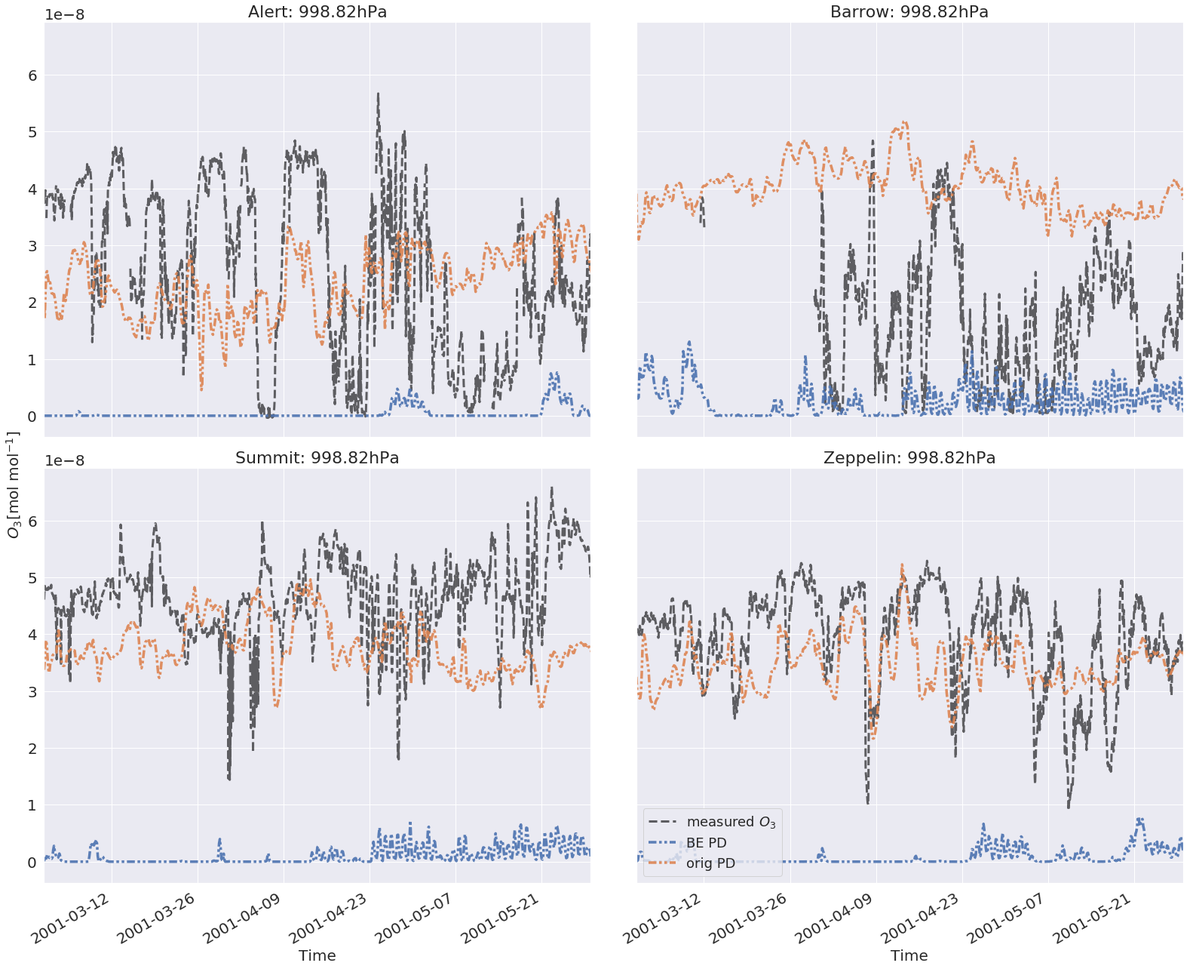
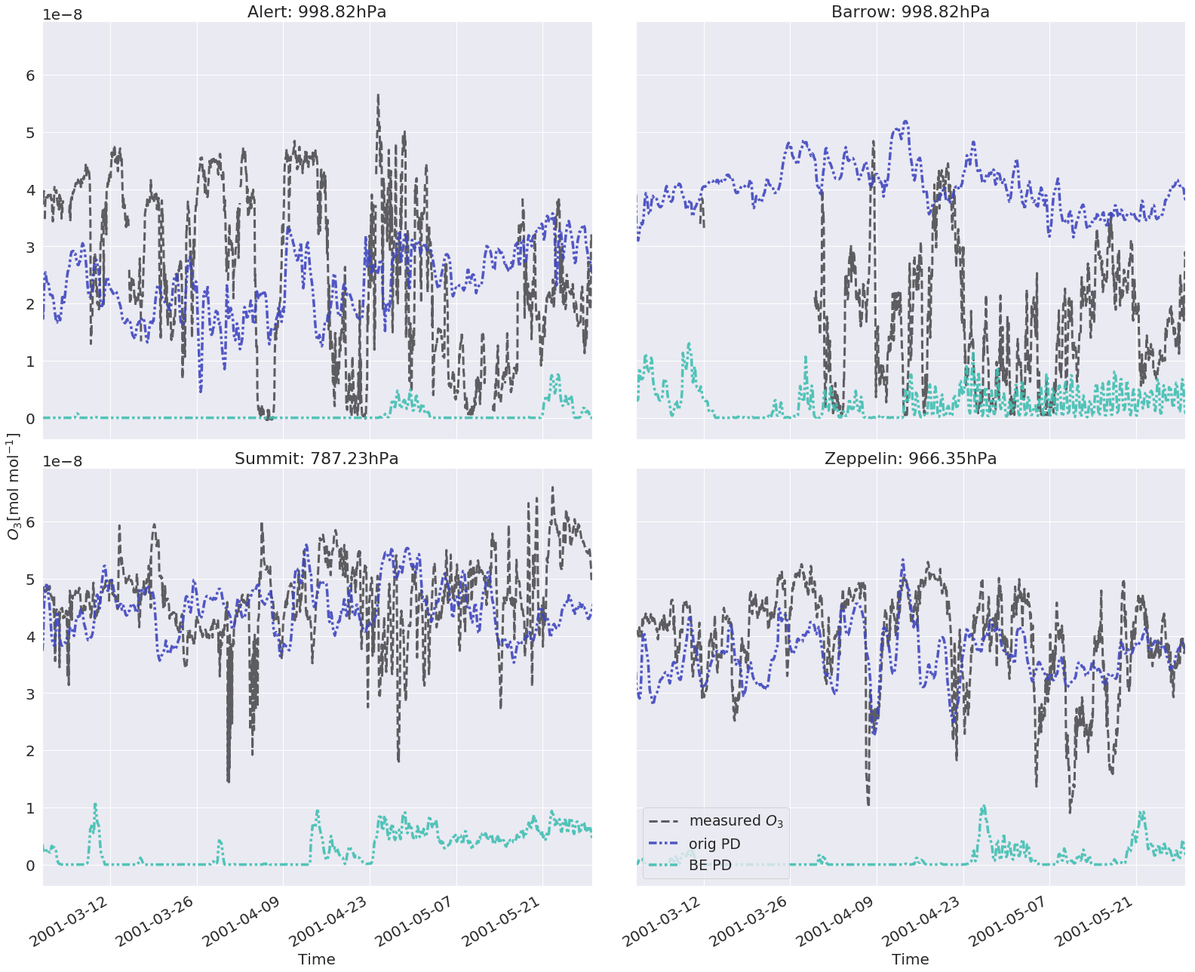
8/5/20

diff --git a/Chapter7_Discussion/discussion.tex b/Chapter7_Discussion/discussion.tex
@@ -9,14 +9,87 @@ The Oslo CTM3 is documented by \cite{SovdeManual} and the documentation in the c
 
 \subsection{A First Look}
 
-In Figure \ref{fig:CompObsOrigBE} (in Section \ref{sec:results_code_development}) the ozone observations at Alert, Barrow, Summit and Zeppelin were compared to model results using the original CTM3 branch (Branch \ref{def:origCTM3_PD}) and the bromine explosion branch (Branch \ref{def:BE_PD}). The latter produced far too low $\chem{O_3}$-concentrations. In order to examine the reason why, a test where the different types of heterogeneous reactions were removed was performed. This is explained in the next section. 
+In Figure \ref{fig:CompObsOrigBE} (in Section \ref{sec:results_code_development}) the ozone observations at Alert, Barrow, Summit and Zeppelin were compared to model results using the original CTM3 branch (Branch \ref{def:origCTM3_PD}) and the bromine explosion branch (Branch \ref{def:BE_PD}). The latter produced far too low $\chem{O_3}$-concentrations even though the bromine content was too low to justify the low ozone-concentration (not shown here). In order to examine the reason why, a test where the different types of heterogeneous reactions were removed was performed. This is explained in the next section. 
 
 \subsection{Test: Removing Heterogeneous Reactions}
 
-Branch \ref{def:BE_PD_noAerosol}-\ref{def:BE_PD_noBr} were created as an attempt to see which process may have caused the problems in the initial BE-branch (Branch \ref{def:BE_PD}). The resulting modelled ozone along with ozone measurements are shown in Figure \ref{fig:test_RemoveHetReacts}. This had to be seen in the context of the modelled bromine content as there generally was not enough bromine to create such low values of ozone. 
+Branch \ref{def:BE_PD_noAerosol}-\ref{def:BE_PD_noBr} were created as an attempt to see which process may have caused the problems in the initial BE-branch (Branch \ref{def:BE_PD}). The resulting modelled ozone along with ozone measurements are shown in Figure \ref{fig:test_RemoveHetReacts}. When the heterogeneous reactions over ice surfaces were removed, the resulting modelled ozone content became similar to what was produced originally (by Branch \ref{def:BE_PD}), indicating that the problem had to be elsewhere. The other three branches produced ozone with comparable mixing ratios as the observed ozone content. Branches \ref{def:BE_PD_noAerosol} and \ref{def:BE_PD_noBr} resembles each other concerning the ozone-concentration, whereas Branch \ref{def:BE_PD_noCl} deviates and shows more sign of having some ozone-depletion patterns (e.g. around the 9th of April at Zeppelin). 
+
+\medskip
+
+The branch without heterogeneous chlorine reactions (Branch \ref{def:BE_PD_noCl}) was chosen for further development as this was considered less invasive to the halogen-chemistry than to exclude the heterogeneous bromine chemistry or the heterogeneous aerosol chemistry. 
+
+\medskip
+
+Figures \ref{fig:vertHBr_noCl}-\ref{fig:polarHBr_noCl} shows the mixing ratio in the vertical and the concentration in the Arctic at the first model layer, respectively. Compared to the measurements of filterable bromine, \chem{f-Br}, performed by \cite{barrie}, the concentration shown in Figure \ref{fig:polarHBr_noCl} is too low (see Figure \ref{fig:Barrie_1988} in the Appendix). The same applies for the \chem{BrO} \acrshort{vcd} over the lowermost $\sim 250$ m shown in Figure \ref{fig:polarBrO_noCl}. Compared to the \acrshort{maxdoas}-measurements performed by \cite{Peterson2015} (see Figure \ref{fig:Peterson_2015} in Appendix) these are about a factor of $10^7$ too low. These low concentrations were focused upon in the further development of the branch. 
+%This had to be seen in the context of the modelled bromine content as there generally was not enough bromine to create such low values of ozone. 
 
 
-no chlorine branch chosen because it was less invasive to adjust this, even though the branches without aerosol reactions and het. bromine reactions were much closer to the original in terms of ozone. 
+
+\subsection{Development of Branch \ref{def:BE_PD_noCl} Without Heterogeneous Chlorine Reactions}
+
+
+\subsubsection{Initializing Branch \ref{def:BE_PD_noCl} With a Higher \chem{HBr} Concentration}\label{sec:disc_step2}
+
+Figure \ref{fig:ozone_noCl_step2} contains the resulting ozone mixing ratio at the four different stations with ozone measurements from 2001 after performing the following tests on Branch \ref{def:BE_PD_noCl}: 
+
+\begin{itemize}
+    \item Hard-coding the \chem{HBr}-concentration to being constantly 30 ppt 
+    \item Hard-coding the \chem{HBr}-concentration to being constantly 10 ppt
+    \item Initializing the run with a restart file (spin-up) from the run above (\chem{HBr}-concentration hard-coded to 10 ppt)
+\end{itemize}
+
+The first two tests were performed for the purpose of investigating whether a forced high concentration of \chem{HBr} would have any effect on the content of reactive bromine species and therefore possibly the production of \acrshort{ode}s. From Figure \ref{fig:ozone_noCl_step2} it is clear that the concentration of ozone is affected, with especially the forced 10 ppt-run following the measured $\chem{O_3}$ to a larger extent than before. 
+
+\medskip
+
+The run initialized with a restart file from the 10 ppt-\chem{HBr} concentration run was performed to allow the system to run in a more physical sense (i.e. avoid hard-coding) although containing more bromine. This run generally produced ozone concentrations that were slightly higher than measured. The \chem{HBr}-mixing ratio and concentration seen in Figures \ref{fig:vertHBr_newRestart}-\ref{fig:polarHBr_newRestart}, respectively, show that the content is about an order of magnitude to high compared to what was seen in Figure \ref{fig:Barrie_1988}. Thus, the bromine content has been boosted by the new initialization, but without any clear effects on the ozone concentrations. 
+
+\medskip
+
+The \chem{HBr}- and \chem{HOBr}-concentrations are closely linked and anti-correlated, as can be seen from Figures \ref{fig:polarHBr_newRestart}-\ref{fig:polarHOBr_newRestart}. A hypothesis for this behaviour was that the \chem{HOBr} was titrated from the system, leaving hot spots of \chem{HBr}. The subsequent testing thus included two more reactions (Reactions \ref{rqn:oh_br2} and \ref{rqn:oh_hbr}) in order to cycle these species more efficiently. 
+
+\medskip
+
+The \chem{BrO}-\acrshort{vcd} shown in Figure \ref{fig:polarBro_newRestart} is still about 6 orders of magnitude too low compared to what could be expected from Figure \ref{fig:Peterson_2015}. The areas of elevated \chem{BrO} are, however related to areas of elevated \chem{HOBr} in Figure \ref{fig:polarHOBr_newRestart}, indicating that Reaction \ref{R:7} is indeed working. The low content could then be related to the inefficient cycling of \chem{HOBr}. 
+
+
+\subsubsection{Hard-Coding Photodissociation and Adjusting the Henry'Law Coefficient}\label{sec:disc_step3}
+
+Figure \ref{fig:ozone_2001_step3} contains the modelled results of four new tests, as well as the observational data, the original CTM3 and the last test from the previous section initialized with a \chem{HBr}-concentration of 10 ppt. The new tests included: 
+
+\begin{itemize}
+    \item Hard-coded photodissociation rates (Hard-coded P) as it turned out the photolysis of the following reactions were in fact not working prior to this
+    \begin{itemize}
+        \item $3\times10^{-4}$ s$^{-1}$ for Reaction \ref{R:18} (value from \cite{CAO})
+        \item $0.014$ s$^{-1}$ for Reaction \ref{R:20}(value from \cite{CAO})
+        \item $0.05\times10^{-8}$ s$^{-1}$ for Reaction \ref{R:12} (value from \cite{Papanastasiou2013}, Arctic spring dissociation rate, Figure 2, p. 3022)
+    \end{itemize}
+    The rest of the tests contained this hard-coded rates. 
+    \item A new Henry's law coefficient, as it turned out the previous coefficient I implemented had the wrong unit. The low Henry coefficient refers to:
+    \begin{itemize}
+        \item \chem{HBr}: $7.2\cdot 10^{-1} [M/amt]$, $6100 K$ (Taken from: \cite{Chameides1992})
+    \end{itemize}   
+    \item The high Henry's law coefficient refers to: 
+    \begin{itemize}
+        \item \chem{HBr}: $2.5 \cdot 10^{1} [M/amt]$, $370 K$ (Taken from: \cite{dean1999})
+    \end{itemize}
+    \item The higher Henry's law coefficient was finally kept in my final version of the CTM3, and was therefore used in the \texttt{HTWO}-test
+\end{itemize}
+
+The resulting modelled ozone mixing ratios from these runs are lower than the previous tests, although with variations (as opposed to the first run using Branch \ref{def:BE_PD} in Figure \ref{fig:CompObsOrigBE}). It could be expected that these tests produced lower ozone-concentrations, as especially the photodissociation rates are a key point in the ozone depletion at the point of Arctic spring, causing halogens to become reactive. The change in the Henry's law coefficient was essential as the previous implementation was wrong, but the high- and low coefficient produce quite similar $\chem{O_3}$-mixing ratios. 
+
+\medskip
+
+The mixing ratio of \chem{HBr} in the vertical and the Artcic concentration in Figure \ref{fig:vertHBr_HTWO_step3} and \ref{fig:polarHBr_HTWO_step3}, respectively shows that the \chem{HBr} concentration is still an order of magnitude too high compared to the findings by \cite{barrie} in Figure \ref{fig:Barrie_1988}. Furthermore, the anti-correlation between \chem{HBr} and \chem{HOBr} can still be seen in Figures \ref{fig:polarHBr_HTWO_step3} and \ref{fig:polarHOBr_HTWO_step3}. Thus, \chem{HOBr} is possibly still being titrated from the system. 
+
+\medskip
+
+Figure \ref{fig:polarBrO_HTWO_step3} shows that the \chem{BrO}-\acrshort{vcd} is still about five orders of magnitude lower than what was found by \cite{Peterson2015} (see Figure \ref{fig:Peterson_2015} in the Appendix). Thus, the \acrshort{vcd} has increased compared to the previous tests, but is still not quite the magnitude it should be, compared to litterature. 
+
+\medskip
+
+There are indications of a possible relation between the high \chem{HOBr}-concentrations at Alert and the low ozone mixing ratio seen at the same time period in Figure \ref{fig:ozone_2001_step3}. It can also be seen from \ref{fig:polarBrO_HTWO_step3} that there is an elevated \acrshort{vcd} of \chem{BrO} at Alert in the same.  time-period
 
 
 \section{Future work}

diff --git a/Chapter6_Results/Results.tex b/Chapter6_Results/Results.tex
@@ -12,7 +12,7 @@ Test-runs are between 14- and 20 (model) days, production runs are 1-3 (model) m
 
 \subsection{A First Look}
 
-Figure \ref{fig:CompObsOrigBE} shows results in terms of $\chem{O_3}$-concentration from preliminary model runs with the chemistry described in Chapter \ref{Chap:CTM3theory_ocean_hetReact} and the branches listed in Section \ref{sec:code_availability}. 
+Figure \ref{fig:CompObsOrigBE} shows results in terms of $\chem{O_3}$-concentration from preliminary model runs with the chemistry described in Chapter \ref{Chap:CTM3theory_ocean_hetReact} and the branches listed in Section \ref{sec:code_availability}. The model runs were compared to the station measurements available for 2001, which were Alert (210 m.a.s.l., therefore ground level was plotted), Barrow (11 m.a.s.l., therefore ground level was plotted), Summit (3238 m.a.s.l., therefore pressure level at 787.23 hPa was plotted) and Zeppelin (474 m.a.s.l., therefore pressure level at 966.35 hPa was plotted). 
 
 \medskip
 
@@ -96,9 +96,9 @@ In Figure \ref{fig:polarBrO_noCl}, the vertical column density for the lowermost
 
 %\input{Chapter6_Results/images/ozone_2001_newClyIntegration}
 
-\subsection{Development of Branch \ref{def:BE_PD_noCl} Without Heterogeneous Chlorine Reactions}
+\subsection{Development of Branch \ref{def:BE_PD_noCl} Without Heterogeneous Chlorine Reactions}\label{sec:res_noHetCl}
 
-\subsubsection{Initializing Branch \ref{def:BE_PD_noCl} With a Higher \chem{HBr} Concentration}\label{sec:step2_result}
+\subsubsection{Initializing Branch \ref{def:BE_PD_noCl} With a Higher \chem{HBr} Concentration}\label{sec:res_step2}
 
 In order to boost the concentration of \chem{HBr}, the concentration was hard-coded to 30 ppt ($= 8.059\cdot10^8 \text{molecules}cm^{-3}$ at $273.15 K$) and 10 ppt ($= 2.69\cdot10^8 \text{molecules}cm^{-3}$ at $273.15 K$), respectively, in the first sub-timestep of \texttt{pchemc\_ij.f90}. Further, a run initialized with a restart file from the 10 ppt run was performed in which the hard-coded concentration of \chem{HBr} was removed.
 
@@ -127,7 +127,7 @@ The polar \chem{BrO}-column depicted in Figure \ref{fig:polarBro_newRestart} sho
 \input{Chapter6_Results/images/polarBrO_newRestart}
 
 
-\subsubsection{Hard-Coding Photodissociation and Adjusting the Henry'Law Coefficient}\label{sec:res_HDP_H}
+\subsubsection{Hard-Coding Photodissociation and Adjusting the Henry'Law Coefficient}\label{sec:res_step3}
 
 Figure \ref{fig:ozone_2001_step3} contains the modelled results from four new tests, whereas the original CTM3-run and the New Restart run was maintained from the previous section. Firstly, the Hard-coded P test was performed by hard-coding the photodissociation rates in \texttt{pchemc\_ij.f90}. In addition to this, two reactions were added in an attempt to better cycle the \chem{HOBr} and \chem{HBr} to avoid the anti-correlation seen in Figures \ref{fig:polarHBr_newRestart}-\ref{fig:polarHOBr_newRestart}:  
 
@@ -145,9 +145,9 @@ Figure \ref{fig:ozone_2001_step3} contains the modelled results from four new te
 The hard-coded photodissociation rates had not previously calculated for Reactions \ref{R:18}, \ref{R:20} and \ref{R:12}. These were previously set to be solved by the fast-JX method (see Section \ref{sec:CTM3_photochemistry}), but this had not worked. Instead, these were hard-coded as was done previously (by \cite{Susanne}) for Reactions \ref{R:19} and \ref{R:1}. The photodissociation rates were set to: 
 
 \begin{itemize}
-    \item $3\cdot10^{-4} s^{-1}$ for Reaction \ref{R:18} (value from \cite{CAO})
-    \item $0.014 s^{-1}$ for Reaction \ref{R:20}(value from \cite{CAO})
-    \item $0.05\cdot10^{-8} s^{-1}$ for Reaction \ref{R:12} (value from \cite{Papanastasiou2013}, Arctic spring dissociation rate, Figure 2, p. 3022)
+    \item $3\times10^{-4}$ s$^{-1}$ for Reaction \ref{R:18} (value from \cite{CAO})
+    \item $0.014$ s$^{-1}$ for Reaction \ref{R:20}(value from \cite{CAO})
+    \item $0.05\times10^{-8}$ s$^{-1}$ for Reaction \ref{R:12} (value from \cite{Papanastasiou2013}, Arctic spring dissociation rate, Figure 2, p. 3022)
 \end{itemize}
 
 
@@ -181,19 +181,22 @@ Figure \ref{fig:ozone_2001_step3} shows that the new tests ozone produce a lower
 
 \medskip
 
-\ref{fig:vertHBr_HFOUR_step3} and \ref{fig:vertHBr_HTWO_step3} contains the vertical column of the \chem{HBr} mixing ratio at \texttt{HFOUR} and \texttt{HTWO} resolution, respectively. The mixing ratio remains around $3\times10^{-10}$ mol mol$^{-1} \sim 300 ppt$ for both the tests. Likewise, Figures \ref{fig:polarHBr_HFOUR_step3}-\ref{fig:polarHBr_HTWO_step3} contains concentrations of \chem{HBr} on the order of $6\times10^{-6} $g m$^{-3}$
+Figure \ref{fig:vertHBr_HTWO_step3} contains the vertical column of the \chem{HBr} mixing ratio at \texttt{HTWO} resolution. The mixing ratio remains around $3\times10^{-10}$ mol mol$^{-1} \sim 300 ppt$ for both the tests. Likewise, Figure \ref{fig:polarHBr_HTWO_step3} contains concentrations of \chem{HBr} on the order of $6\times10^{-6} $g m$^{-3}$. The concentration of \chem{HOBr} is shown in Figure \ref{fig:polarHOBr_HTWO_step3}. The same anti-correlation is shown between \chem{HBr} and \chem{HOBr} as in the previous section. 
 
-\input{Chapter6_Results/images/vertHBr_HFOUR_step3}
+%\input{Chapter6_Results/images/vertHBr_HFOUR_step3}
 \input{Chapter6_Results/images/vertHBr_HTWO_step3}
 
-\input{Chapter6_Results/images/polarHBr_HFOUR_step3}
+%\input{Chapter6_Results/images/polarHBr_HFOUR_step3}
 \input{Chapter6_Results/images/polarHBr_HTWO_step3}
+
+\input{Chapter6_Results/images/polarHOBr_HTWO_step3}
+
 
 \medskip
 
+The \chem{BrO} \acrshort{vcd} is shown in Figure \ref{fig:polarBrO_HTWO_step3}. The  \acrshort{vcd} now has a maximum of about $3\times10^8$ molecules cm$^{-2}$. 
 
-
-\input{Chapter6_Results/images/polarBrO_HFOUR_step3}
+%\input{Chapter6_Results/images/polarBrO_HFOUR_step3}
 \input{Chapter6_Results/images/polarBrO_HTWO_step3}
 
 %\subsubsection{Changing $L_{mix}$ in Reaction \ref{R:7}}
@@ -252,29 +255,29 @@ Figure \ref{fig:ozone_2001_step3} shows that the new tests ozone produce a lower
 
 %This was with both hard-coded photodissosiation rates and higher Henry coefficient C3RUN\_BE\_HTWO\_HX\_HDP\_MarchApril
 
-\section{Comparison between the PD- and PI-branches}
+%\section{Comparison between the PD- and PI-branches}
 
-\section{Comparison with station data}
+%\section{Comparison with station data}
 
-\section{Comparison with literature}
+%\section{Comparison with literature}
 
-\cite{Zhao2016} measured BrO column at Eureka in 2011 -- SJekk ut! 
+%\cite{Zhao2016} measured BrO column at Eureka in 2011 -- SJekk ut! 
 
 
-\cite{Peterson2016} and \cite{Peterson2015} -- BrO over Barrow -- sjekk ut! 
+%\cite{Peterson2016} and \cite{Peterson2015} -- BrO over Barrow -- sjekk ut! 
 
-Measurements of $\chem{Br_2}$, \chem{BrCl} and $\chem{O_3}$ were conducted by \cite{Foster2001} at Alert research station. They found $\chem{Br_2}$ mixing ratios up to $\sim$ 25 \acrshort{ppt} and \chem{BrCl} at mixing ratios up to 35 \acrshort{ppt} between day 40 and 75 in 2001. Ozone was depleted from background values of $\sim$ 30-40 \acrshort{ppb} to below 10 ppb. 
+%Measurements of $\chem{Br_2}$, \chem{BrCl} and $\chem{O_3}$ were conducted by \cite{Foster2001} at Alert research station. They found $\chem{Br_2}$ mixing ratios up to $\sim$ 25 \acrshort{ppt} and \chem{BrCl} at mixing ratios up to 35 \acrshort{ppt} between day 40 and 75 in 2001. Ozone was depleted from background values of $\sim$ 30-40 \acrshort{ppb} to below 10 ppb. 
 
-\medskip
+%\medskip
 
-\cite{Simpson2017} investigated the \chem{BrO} column using \acrlong{maxdoas} instrumentation near Barrow in 2012.
+%\cite{Simpson2017} investigated the \chem{BrO} column using \acrlong{maxdoas} instrumentation near Barrow in 2012.
 
-\medskip
+%\medskip
 
-\cite{Luo2018} also investigated the \chem{BrO} column using \acrshort{maxdoas} in Ny Ålesund in 2015. 
+%\cite{Luo2018} also investigated the \chem{BrO} column using \acrshort{maxdoas} in Ny Ålesund in 2015. 
 
-\medskip
+%\medskip
 
-\cite{Thomas2012} and \cite{Thomas2011} about the mechanism behind ODEs at Summit, Greenland. 
+%\cite{Thomas2012} and \cite{Thomas2011} about the mechanism behind ODEs at Summit, Greenland. 
 
-\section{Calculation of radiative forcing using PD- and PI model results}
+%\section{Calculation of radiative forcing using PD- and PI model results}

diff --git a/Chapter6_Results/images/ozone_noCl_step2.tex b/Chapter6_Results/images/ozone_noCl_step2.tex
@@ -1,6 +1,6 @@
 \begin{figure}[ht]
     \centering
     \includegraphics[width=\linewidth]{Chapter6_Results/images/ozone_noCl_step2.png}
-    \caption{Ozone measurements (black line) and model results from the original CTM3 (blue line), Branch \ref{def:BE_PD_noCl} (turquoise line) (these three are the same as in Figure \ref{fig:test_RemoveHetReacts}), Branch \ref{def:BE_PD_noCl} with hard coded \chem{HBr}-concentration of 30 ppt (green line), Branch \ref{def:BE_PD_noCl} with hard coded \chem{HBr}-concentration of 10 ppt(light green line) and Branch \ref{def:BE_PD_noCl} initialized with a restart file from the hard coded \chem{HBr}-concentration of 10 ppt- run (yellow line) at the four different stations, Alert (top left), Barrow (top right), Summit (lower left) and Zeppelin (lower right) with available measurements in 2001. Model results are taken from the first model level at $998.82 hPa$. PD = present day, BE = bromine explosion}
+    \caption{Ozone measurements (black line) and model results from the original CTM3 (blue line), Branch \ref{def:BE_PD_noCl} (turquoise line) (these three are the same as in Figure \ref{fig:test_RemoveHetReacts}), Branch \ref{def:BE_PD_noCl} with hard coded \chem{HBr}-concentration of 30 ppt (green line), Branch \ref{def:BE_PD_noCl} with hard coded \chem{HBr}-concentration of 10 ppt(light green line) and Branch \ref{def:BE_PD_noCl} initialized with a restart file from the hard coded \chem{HBr}-concentration of 10 ppt- run (yellow line) at the four different stations, Alert (top left), Barrow (top right), Summit (lower left) and Zeppelin (lower right) with available measurements in 2001. Model results were taken from the approximate altitude of the station in hPa. PD = present day, BE = bromine explosion}
     \label{fig:ozone_noCl_step2}
 \end{figure}

diff --git a/Chapter6_Results/images/ozone_2001_step3.tex b/Chapter6_Results/images/ozone_2001_step3.tex
@@ -1,6 +1,6 @@
 \begin{figure}[ht]
     \centering
     \includegraphics[width=\linewidth]{Chapter6_Results/images/ozone_2001_step3.png}
-    \caption{Ozone measurements (black line) and model results from the original CTM3 (blue line) (these two are the same as in Figure \ref{fig:test_RemoveHetReacts}), test with new restart file from Section \ref{sec:step2_result} (orange line), hard-coded photodissociation rates (green line), new (low) Henry's law constant of $7.2\times10^{-1} M atm ^{-1}$ and $6100 K$ (pink line), new (high) Henry's law constant of $2.5\times10^{1} M atm ^{-1}$ and $370 K$ (purple line) and the latter ran at HTWO resolution (brown line) at the four different stations, Alert (top left), Barrow (top right), Summit (lower left) and Zeppelin (lower right) with available measurements in 2001. Model results are taken from the first model level at $998.82 hPa$. PD = present day, P = photolysis rate, H = Henry's Law}
+    \caption{Ozone measurements (black line) and model results from the original CTM3 (blue line) (these two are the same as in Figure \ref{fig:test_RemoveHetReacts}), test with new restart file from Section \ref{sec:res_step2} (orange line), hard-coded photodissociation rates (green line), new (low) Henry's law constant of $7.2\times10^{-1} M atm ^{-1}$ and $6100 K$ (pink line), new (high) Henry's law constant of $2.5\times10^{1} M atm ^{-1}$ and $370 K$ (purple line) and the latter ran at HTWO resolution (brown line) at the four different stations, Alert (top left), Barrow (top right), Summit (lower left) and Zeppelin (lower right) with available measurements in 2001. Model results were taken from the approximate altitude of the station in hPa. PD = present day, P = photolysis rate, H = Henry's Law}
     \label{fig:ozone_2001_step3}
 \end{figure}

diff --git a/Chapter6_Results/images/ozone_2001_testRemoveHetReacts.tex b/Chapter6_Results/images/ozone_2001_testRemoveHetReacts.tex
@@ -1,6 +1,6 @@
 \begin{figure}
     \centering
     \includegraphics[width = \linewidth]{Chapter6_Results/images/ozone_removingHetReacts.png}
-    \caption{Ozone measurements (black line) and model results from the original CTM3 (turquoise line), Branch \ref{def:BE_PD} (blue line), Branch \ref{def:BE_PD_noAerosol} (green line), \ref{def:BE_PD_noIce} (orange line), Branch \ref{def:BE_PD_noCl} (light green line) and Branch \ref{def:BE_PD_noBr} (yellow line) at the four different stations, Alert (top left), Barrow (top right), Summit (lower left) and Zeppelin (lower right) with available measurements in 2001. Model results are taken from the first model level at $998.82 hPa$. PD = present day, BE = bromine explosion}
+    \caption{Ozone measurements (black line) and model results from the original CTM3 (blue line), Branch \ref{def:BE_PD} (turquoise line), Branch \ref{def:BE_PD_noAerosol} (green line), \ref{def:BE_PD_noIce} (orange line), Branch \ref{def:BE_PD_noCl} (light green line) and Branch \ref{def:BE_PD_noBr} (yellow line) at the four different stations, Alert (top left), Barrow (top right), Summit (lower left) and Zeppelin (lower right) with available measurements in 2001. Model results were taken from the approximate altitude of the station in hPa. PD = present day, BE = bromine explosion}
     \label{fig:test_RemoveHetReacts}
 \end{figure}

diff --git a/Chapter6_Results/images/polarBrO_HTWO_step3.tex b/Chapter6_Results/images/polarBrO_HTWO_step3.tex
@@ -1,6 +1,6 @@
 \begin{figure}[h]
     \centering
     \includegraphics[width=\linewidth]{Chapter6_Results/images/polarBrO_HTWO_step3.png}
-    \caption{Vertical column density ($molecules cm^{-2}$) of \chem{BrO} in the lowermost $\sim 250 m$ at 18:00 and 06:00 (UTC) of the 27th, 28th and 29th of April, 2001. The result is from the test including hard-coded photodissociation rates as well as a new (high) Henry-coefficient at HFOUR resolution. The red dots are the positions of the stations with observations in 2001 (see the map in Figure \ref{fig:stns} for reference)}
+    \caption{Vertical column density ($molecules cm^{-2}$) of \chem{BrO} in the lowermost $\sim 250 m$ at 18:00 and 06:00 (UTC) of the 27th, 28th and 29th of April, 2001. The result is from  Branch \ref{def:BE_PD_noCl} including hard-coded photodissociation rates as well as a new (high) Henry-coefficient at HFOUR resolution. The red dots are the positions of the stations with observations in 2001 (see the map in Figure \ref{fig:stns} for reference)}
     \label{fig:polarBrO_HTWO_step3}
 \end{figure}

diff --git a/Chapter6_Results/images/ozone_2001_compObsOrigBE.tex b/Chapter6_Results/images/ozone_2001_compObsOrigBE.tex
@@ -1,6 +1,6 @@
 \begin{figure}
     \centering
     \includegraphics[width = \linewidth]{Chapter6_Results/images/ozone_2001_compObsOrigBE.png}
-    \caption{Ozone measurements (black line) and model results from the original CTM3 (Branch \ref{def:origCTM3_PD}) (orange line) and Branch \ref{def:BE_PD} (blue line) at the four different stations, Alert (top left), Barrow (top right), Summit (lower left) and Zeppelin (lower right) with available measurements in 2001. Model results were taken from the first model level at $998.82 hPa$. PD = present day, BE = bromine explosion}
+    \caption{Ozone measurements (black line) and model results from the original CTM3 (Branch \ref{def:origCTM3_PD}) (blue line) and Branch \ref{def:BE_PD} (turquoise line) at the four different stations, Alert (top left), Barrow (top right), Summit (lower left) and Zeppelin (lower right) with available measurements in 2001. Model results were taken from the approximate altitude of the station in hPa. PD = present day, BE = bromine explosion}
     \label{fig:CompObsOrigBE}
 \end{figure}

diff --git a/Chapter6_Results/images/polarHBr_HTWO_step3.tex b/Chapter6_Results/images/polarHBr_HTWO_step3.tex
@@ -1,6 +1,6 @@
 \begin{figure}[h]
     \centering
     \includegraphics[width=\linewidth]{Chapter6_Results/images/polarHBr_HTWO_step3.png}
-    \caption{Concentration ($g m^{-3}$) of \chem{HBr} in the first model layer the Arctic at 18:00 and 06:00 (UTC) of the 27th, 28th and 29th of April, 2001. The result is from the test including hard-coded photodissociation rates as well as a new (high) Henry-coefficient at HTWO resolution. The red dots are the positions of the stations with observations in 2001 (see the map in Figure \ref{fig:stns} for reference)}
+    \caption{Concentration ($g m^{-3}$) of \chem{HBr} in the first model layer the Arctic at 18:00 and 06:00 (UTC) of the 27th, 28th and 29th of April, 2001. The result is from Branch \ref{def:BE_PD_noCl} including hard-coded photodissociation rates as well as a new (high) Henry-coefficient at HTWO resolution. The red dots are the positions of the stations with observations in 2001 (see the map in Figure \ref{fig:stns} for reference)}
     \label{fig:polarHBr_HTWO_step3}
 \end{figure}

diff --git a/Chapter6_Results/images/vertHBr_HTWO_step3.tex b/Chapter6_Results/images/vertHBr_HTWO_step3.tex
@@ -1,6 +1,6 @@
 \begin{figure}[h]
     \centering
     \includegraphics[width=\linewidth]{Chapter6_Results/images/vertHBr_HTWO_step3.png}
-    \caption{Mixing ratio ($mol mol^{-1}$) of \chem{HBr} in the model layers up to $\sim 600 hPa$ at the four different stations Alert (top left), Barrow (top right), Zeppelin (lower left) and Summit (lower right) in April, 2001. The result is from the test including hard-coded photodissociation rates as well as a new (high) Henry-coefficient at HTWO resolution}
+    \caption{Mixing ratio ($mol mol^{-1}$) of \chem{HBr} in the model layers up to $\sim 600 hPa$ at the four different stations Alert (top left), Barrow (top right), Zeppelin (lower left) and Summit (lower right) in April, 2001. The result is from Branch \ref{def:BE_PD_noCl} including hard-coded photodissociation rates as well as a new (high) Henry-coefficient at HTWO resolution}
     \label{fig:vertHBr_HTWO_step3}
 \end{figure}

diff --git a/acknowledgement.tex b/acknowledgement.tex
@@ -1,6 +1,6 @@
 \chapter*{Acknowledgement}
 \addcontentsline{toc}{chapter}{Acknowledgement}
-%I would first and foremost like to thank my main supervisor Terje, for always having a couple of minutes when all seems desperate. Your theoretical support and discussions has been extremely appreciated. A big thanks to Stefanie as well for answering patiently to big and small questions and bringing order to overwhelming chaos. Marianne
+%I would first and foremost like to thank my main supervisor Terje, for always having a couple of minutes when all seems desperate. Your theoretical support and discussions has been extremely appreciated. A big thanks to Stefanie as well for answering patiently to big and small questions and bringing order to overwhelming chaos. Also, my supervisor at Cicero, Marianne, helped me with invaluable help.  
 
 %\medskip
 

diff --git a/Chapter6_Results/images/polarHOBr_HTWO_step3.tex b/Chapter6_Results/images/polarHOBr_HTWO_step3.tex
@@ -1,0 +1,6 @@
+\begin{figure}[h]
+    \centering
+    \includegraphics[width=\linewidth]{Chapter6_Results/images/polarHOBr_HTWO_step3.png}
+    \caption{Concentration ($g m^{-3}$) of \chem{HOBr} in the first model layer the Arctic at 18:00 and 06:00 (UTC) of the 27th, 28th and 29th of April, 2001. The result is from  Branch \ref{def:BE_PD_noCl} including hard-coded photodissociation rates as well as a new (high) Henry-coefficient at HTWO resolution. The red dots are the positions of the stations with observations in 2001 (see the map in Figure \ref{fig:stns} for reference)}
+    \label{fig:polarHOBr_HTWO_step3}
+\end{figure}

diff --git a/Appendix/Appendix.tex b/Appendix/Appendix.tex
@@ -4,6 +4,8 @@
 \section{CTM3 specifications}\label{app:CTM3}
 \input{Appendix/PLAND}
 
+\section{Supporting Figures From Litterature}\label{app:supp_fig}
+
 \input{Appendix/images/Hossaini_fig5}
 
 \input{Appendix/images/Hossaini_fig6}
